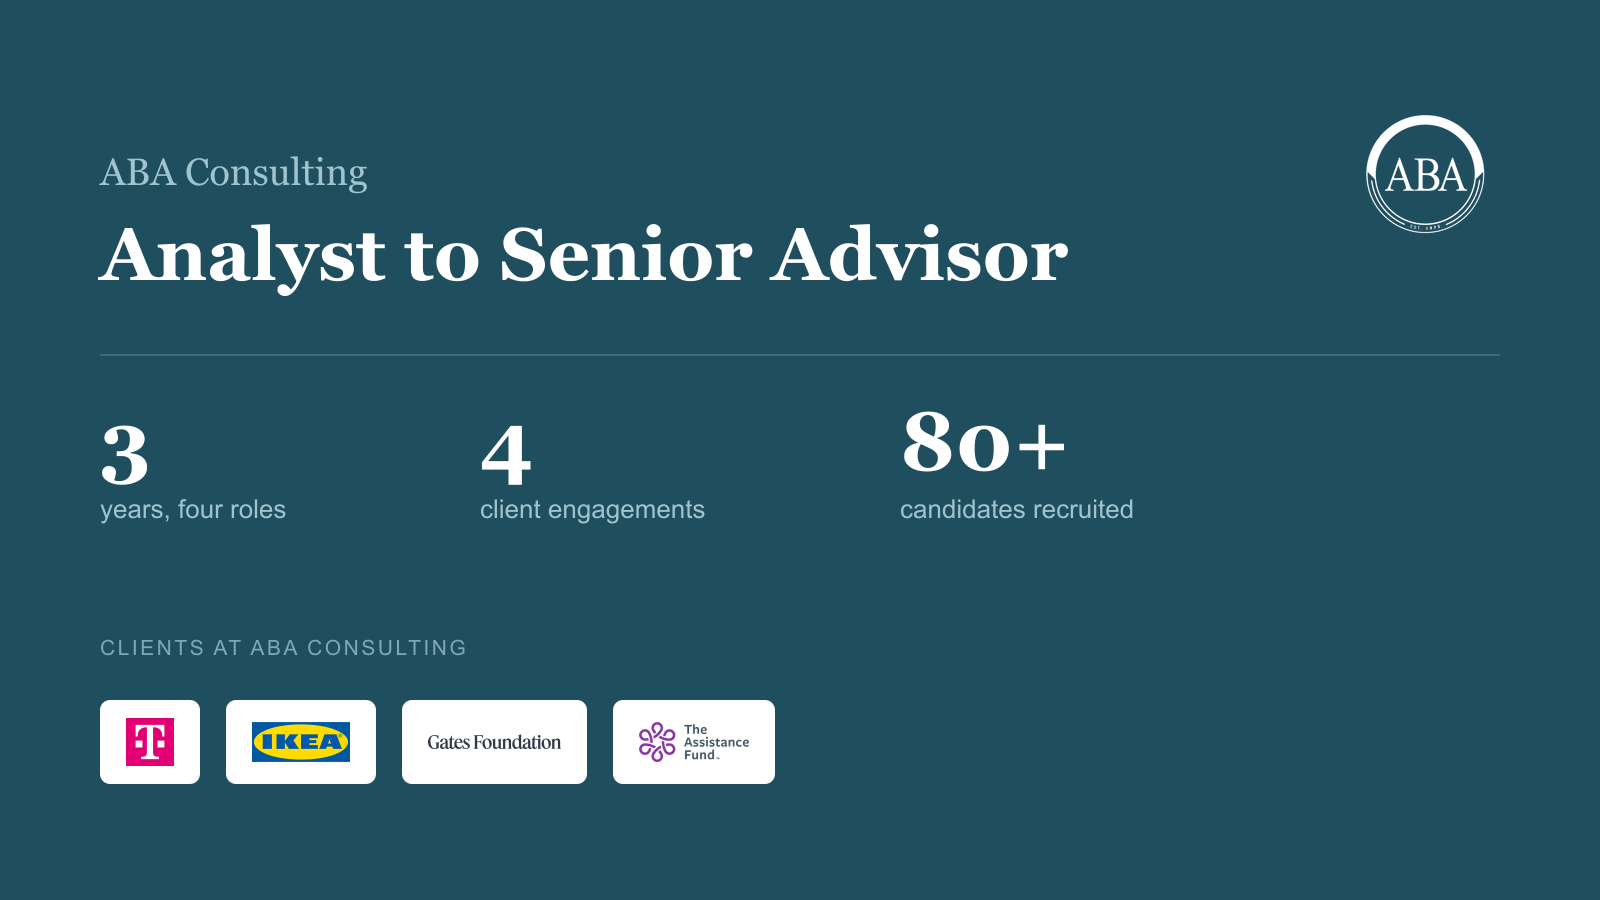
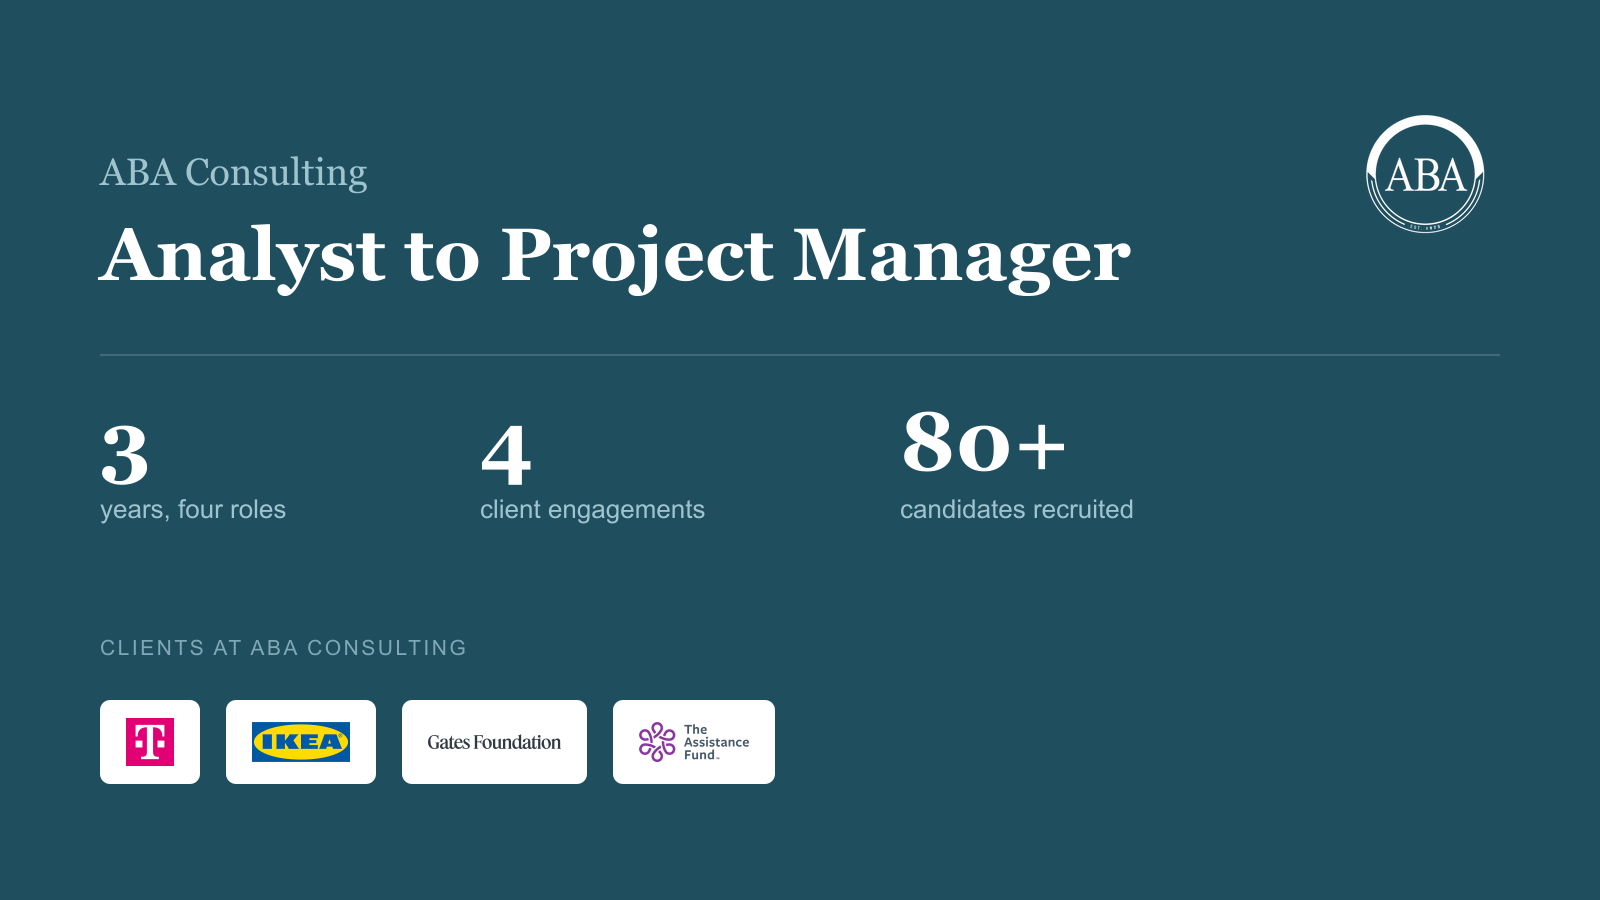
ABA cover and hook: lead with analyst to project manager

Changed region(s): [[0.3125, 0.2489, 0.7188, 0.3422]]

diff --git a/src/content/projects/aba-consulting-ops.md b/src/content/projects/aba-consulting-ops.md
@@ -1,13 +1,13 @@
 ---
 title: 'Building the analyst org at ABA Consulting'
-hook: 'Three years from analyst to senior advisor: four client engagements, teams of 5 to 8, and the hiring pipeline for 80+ candidates'
+hook: 'Analyst to project manager in three years: four client engagements, teams of 5 to 8, and the hiring pipeline for 80+ candidates'
 summary: 'Delivery and internal operations at a student consulting organization: client work for T-Mobile, IKEA, The Assistance Fund, and the Gates Foundation, plus the recruiting pipeline, training curriculum, and culture the org ran on.'
 tags: ['Ops']
 featured: true
 order: 2
 status: 'shipped'
 cover: '/images/covers/aba.png'
-coverAlt: 'ABA Consulting: three years, four roles, four client engagements, 80+ candidates recruited'
+coverAlt: 'ABA Consulting, analyst to project manager: three years, four roles, four client engagements, 80+ candidates recruited'
 ---
 
 ## The arc
